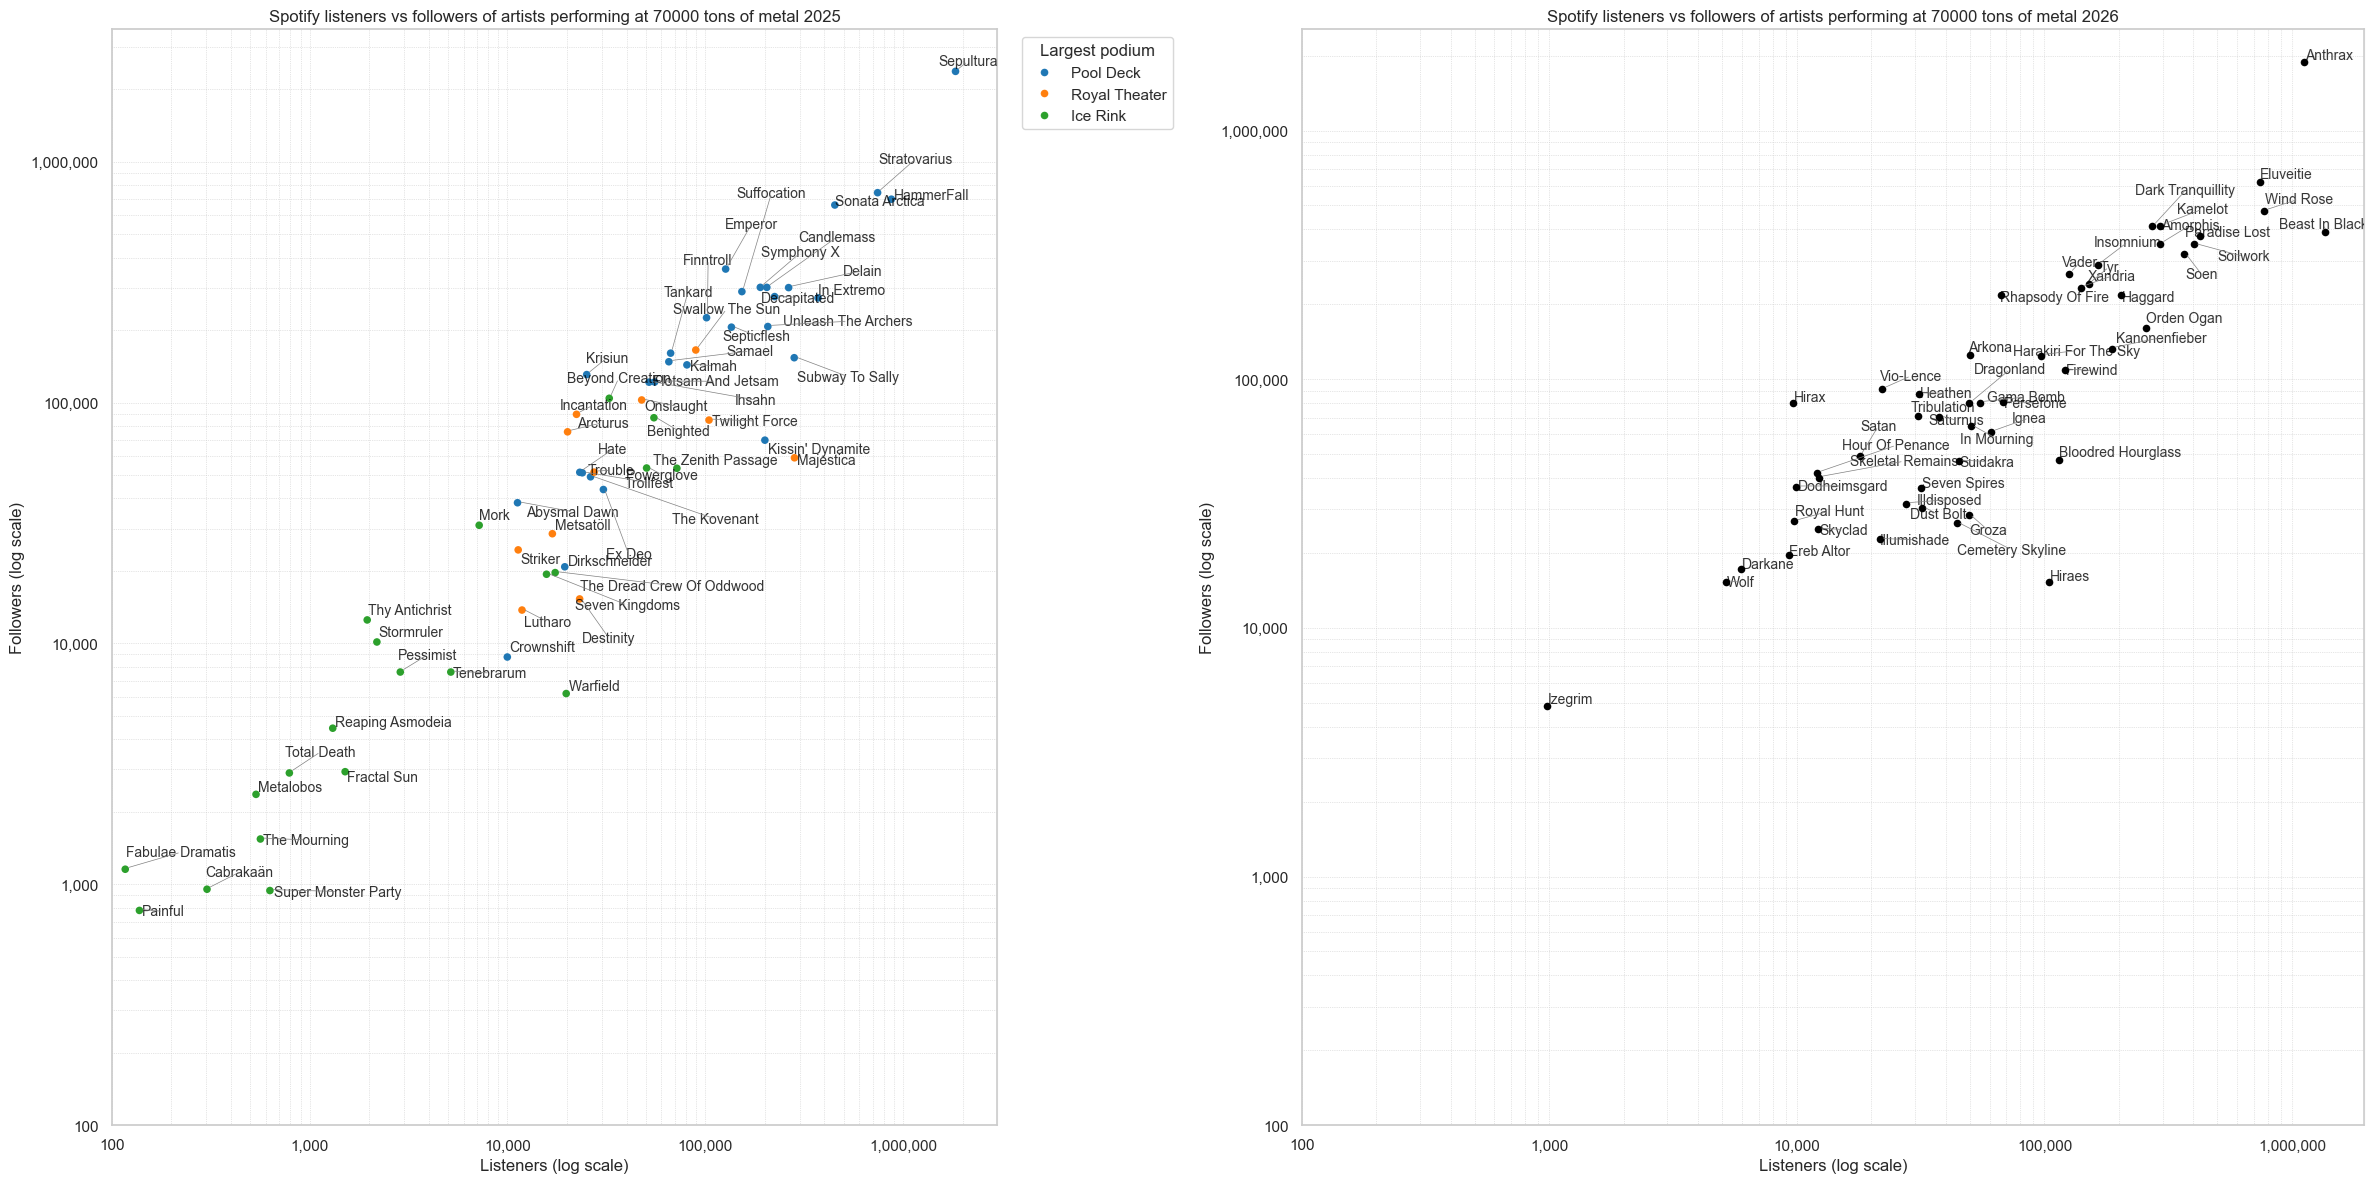
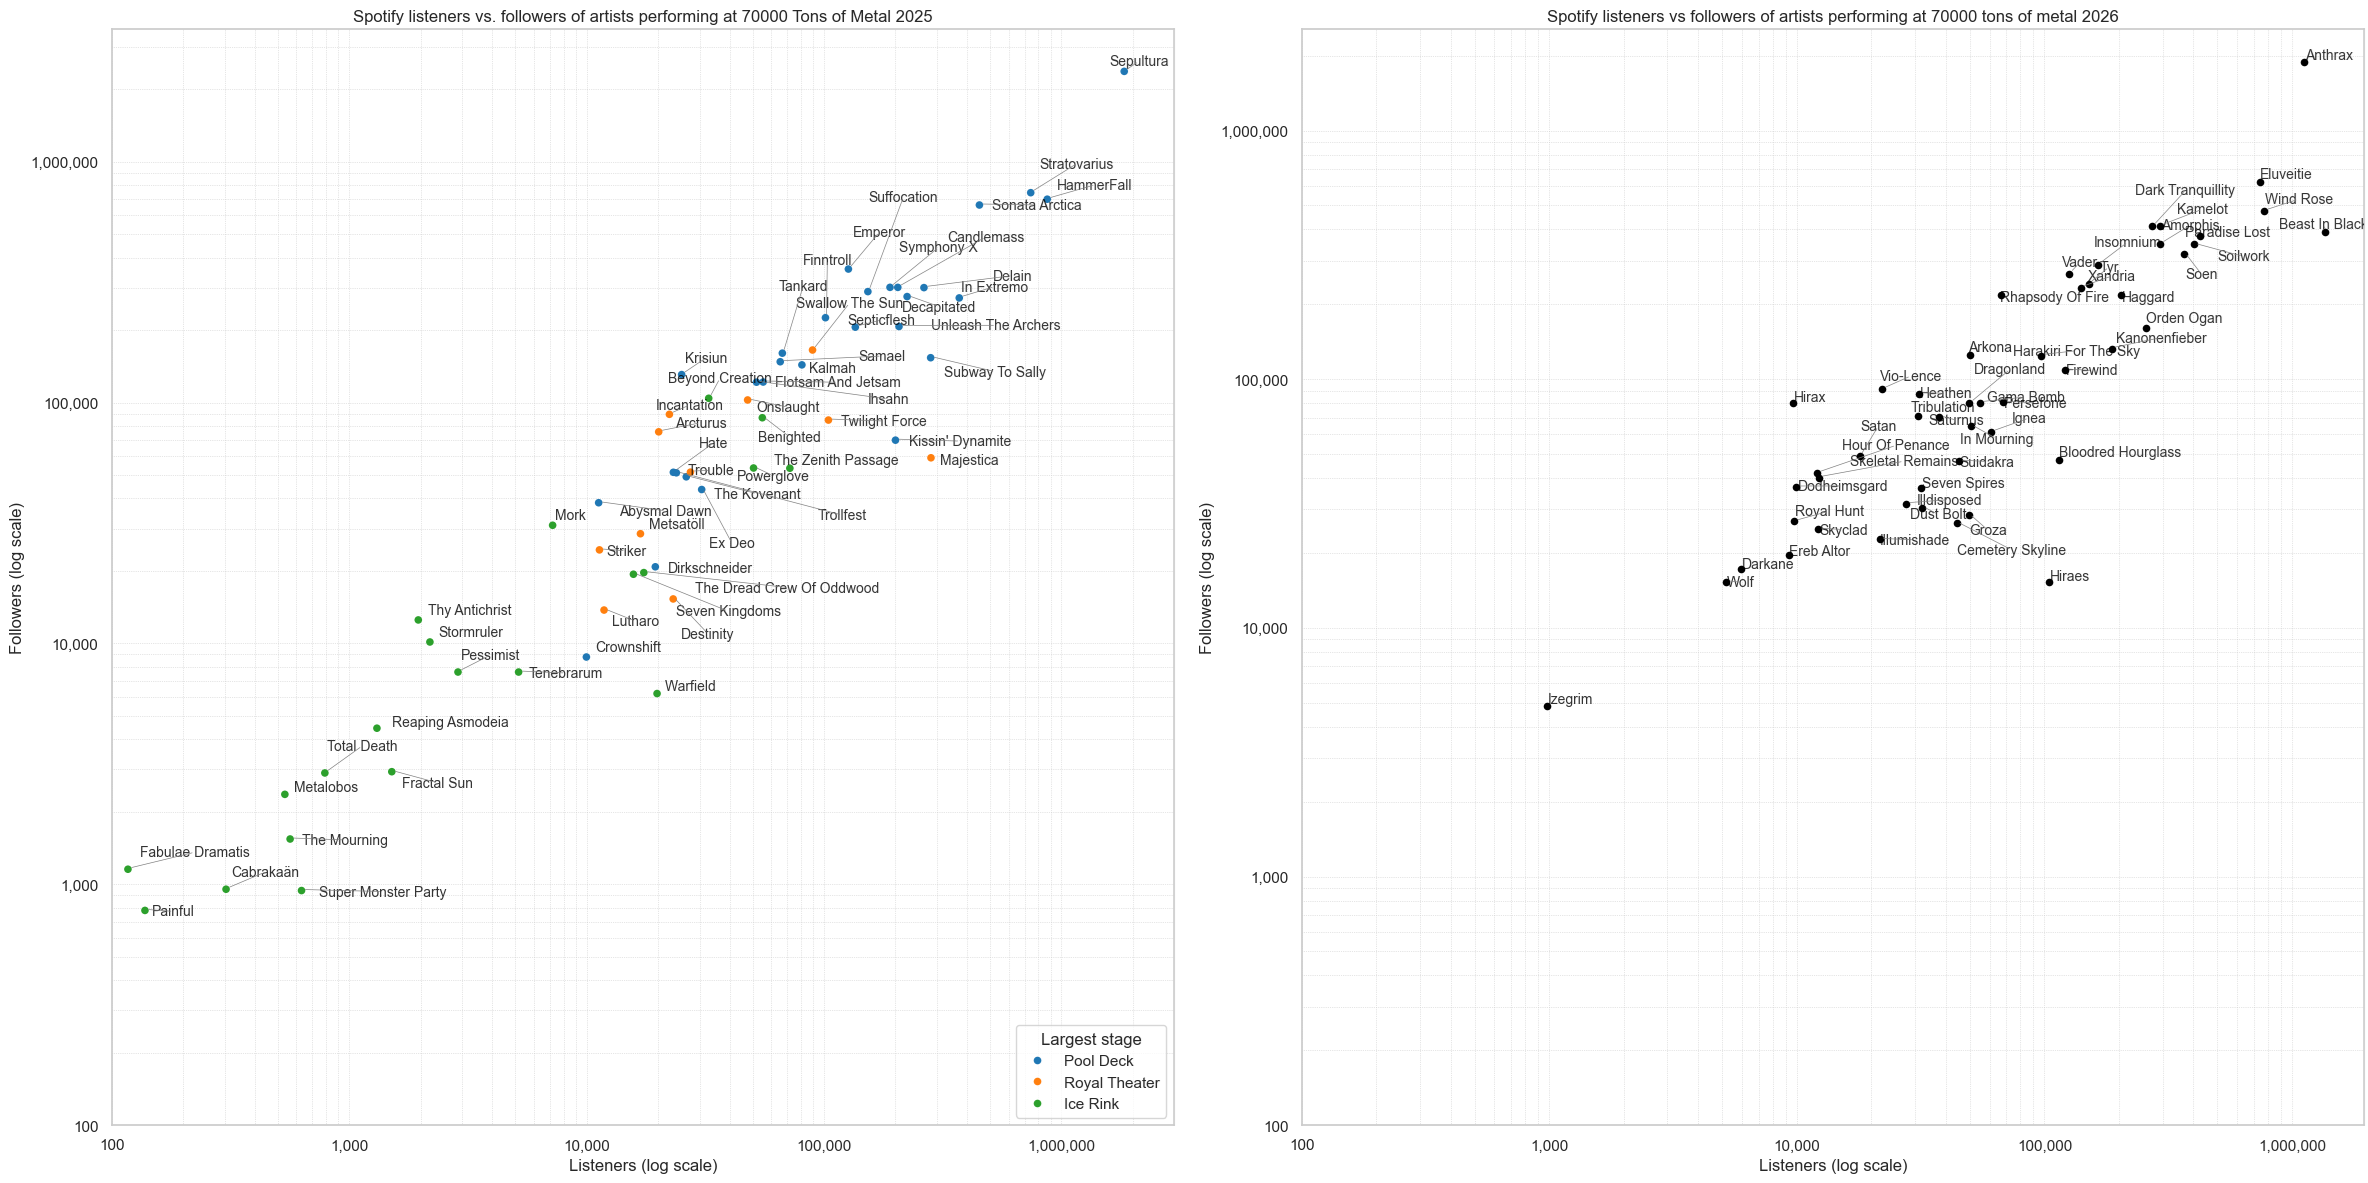
Typos

diff --git a/projects/compare_artist_followers_listeners/1_compare_artist_followers_listeners.py b/projects/compare_artist_followers_listeners/1_compare_artist_followers_listeners.py
@@ -11,7 +11,7 @@ import pandas as pd
 import seaborn as sns
 
 # %% INPUTS
-year = 2025
+year = 2026
 
 # %% GET DATA
 # Load from csv to avoid time-consuming API calls
@@ -92,7 +92,7 @@ adjust_text(
 )
 
 # Titles and labels
-plt.title(f"Spotify listeners vs followers of artists performing at 70000 tons of metal {year}")
+plt.title(f"Spotify listeners vs. followers of artists performing at 70000 Tons of Metal {year}")
 plt.xlabel("Listeners (log scale)")
 plt.ylabel("Followers (log scale)")
 
@@ -102,9 +102,9 @@ ymin, ymax = ax.get_ylim()
 ax.set_xlim(left=100, right=xmax)
 ax.set_ylim(bottom=100, top=ymax)
 
-# Add legend for podium if column exists
+# Add legend for stage if column exists
 if "podium_largest" in df.columns:
-    ax.legend(title="Largest podium", bbox_to_anchor=(1.02, 1), loc="upper left")
+    ax.legend(title="Largest stage", loc="lower right")
 
 plt.tight_layout()
 plt.show()
